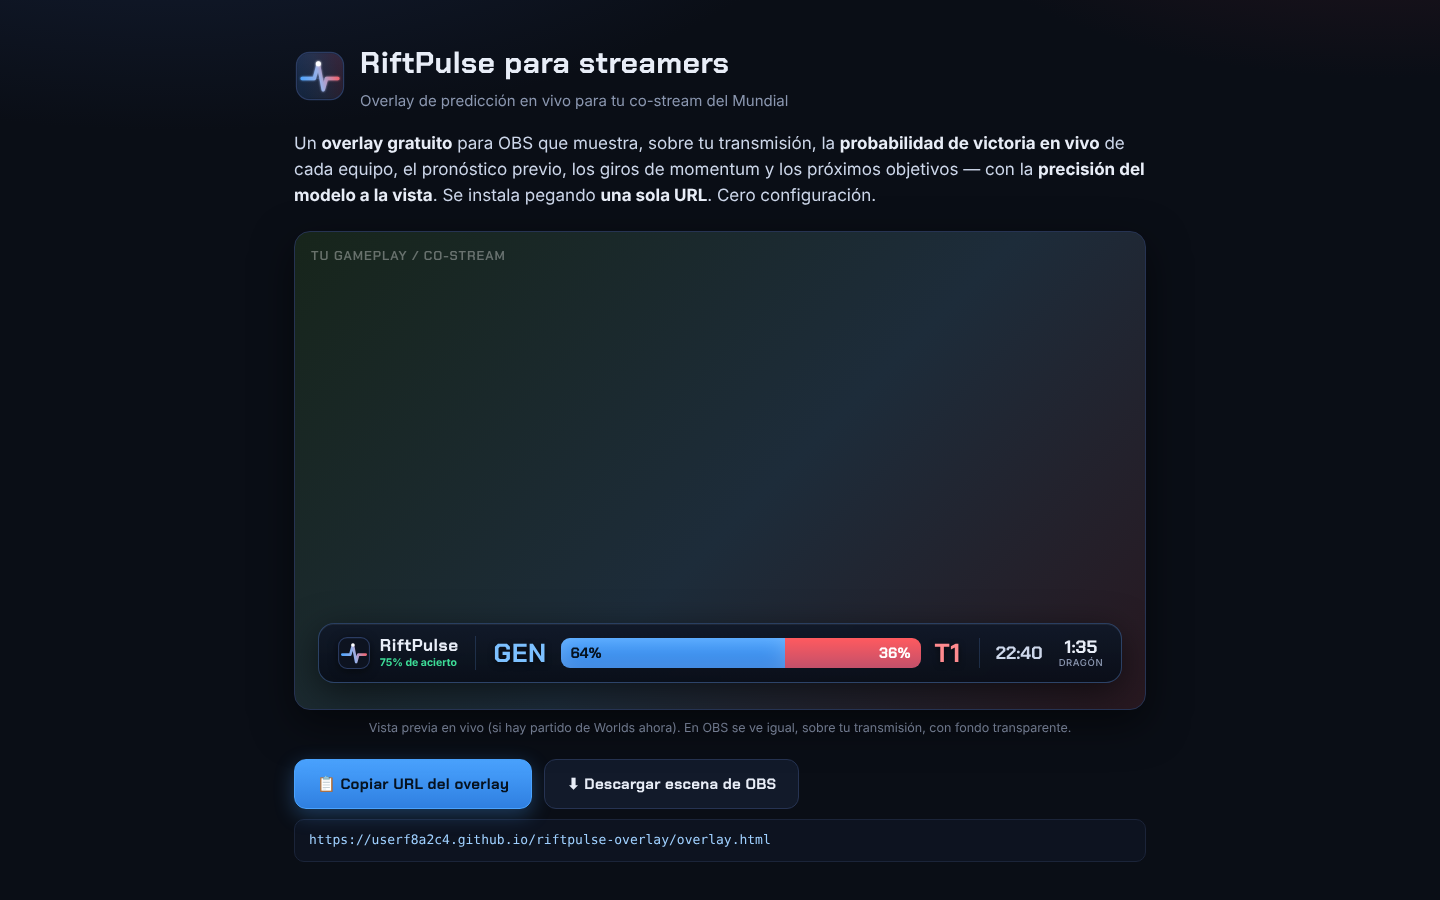
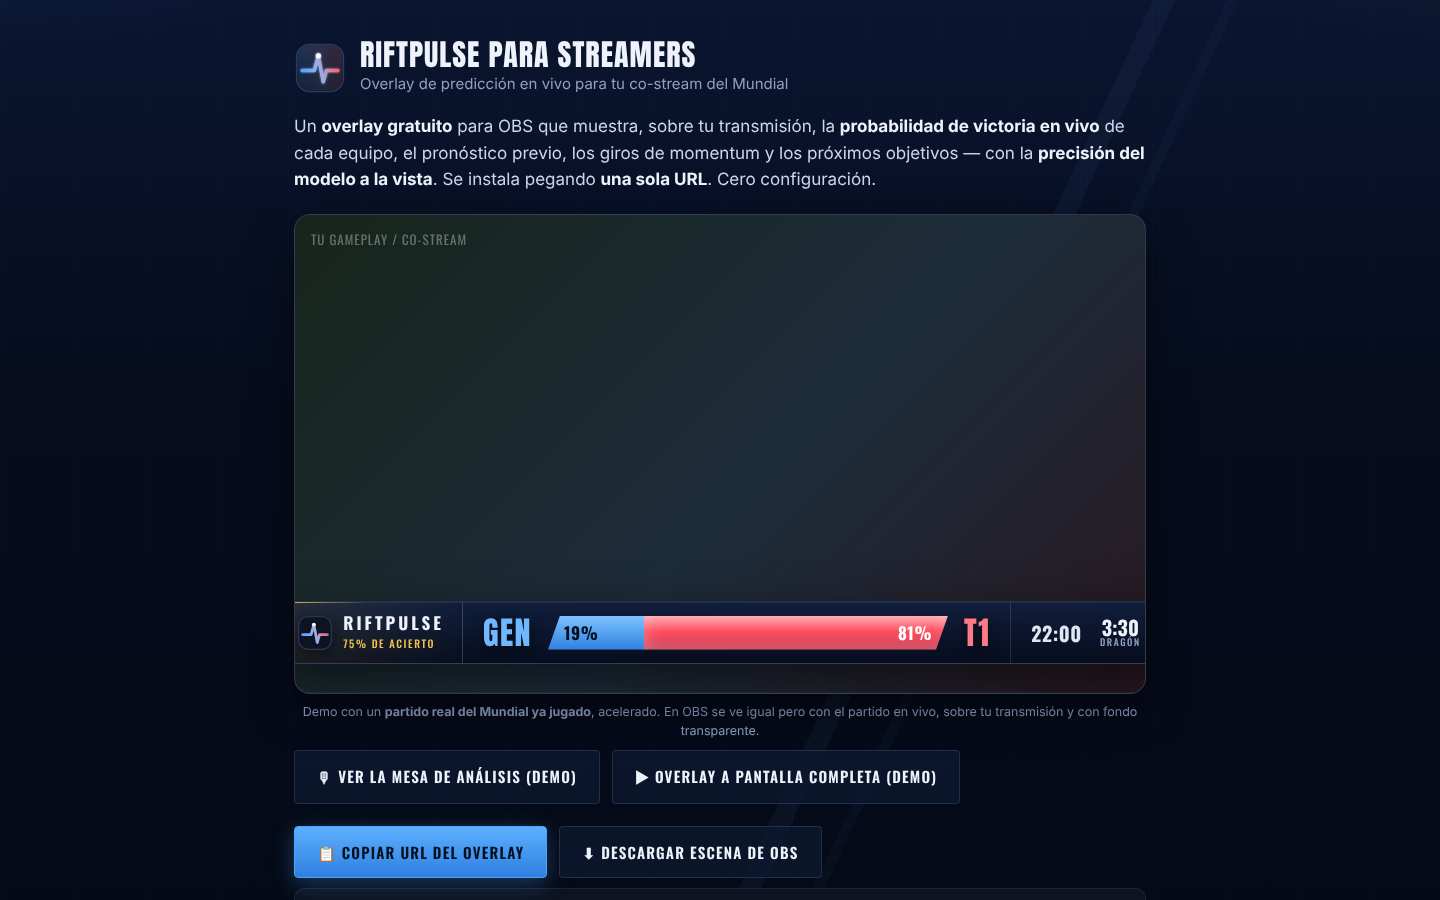
Imagenes del README y la wiki con el diseno nuevo; predicciones y cuadro

Changed region(s): [[0.1875, 0.0, 0.875, 0.3111], [0.1875, 0.6844, 0.8125, 0.9956]]

diff --git a/README.md b/README.md
@@ -25,6 +25,7 @@ RiftPulse estima **en tiempo real** la probabilidad de victoria de cada equipo d
 - 🎬 **[Overlay para OBS](https://github.com/userf8a2c4/riftpulse-overlay/wiki/Paquete-de-gráficos)** — barra en vivo y piezas conmutables: serie, duelos por línea, alerta de giro, qué necesita el que va abajo y resumen al terminar cada juego.
 - 🎙 **[Mesa de análisis](https://github.com/userf8a2c4/riftpulse-overlay/wiki/Mesa-de-análisis)** — segunda pantalla para casters: el porqué, giros clave, duelos, serie, draft y **frases listas para comentar**.
 - 🎚 **[Control de producción](https://github.com/userf8a2c4/riftpulse-overlay/wiki/Control-de-producción)** — enciende y apaga piezas y lanza alertas sin recargar.
+- 🏆 **[Predicciones del stream y cuadro en vivo](https://github.com/userf8a2c4/riftpulse-overlay/wiki/Control-de-producción)** — los picks de cada integrante con aciertos automáticos, y las eliminatorias del Mundial en tiempo real.
 - 🎯 **[Precisión a la vista](https://github.com/userf8a2c4/riftpulse-overlay/wiki/Precisión-y-pruebas)** — 62 % antes del juego, **75 % al min 15** y 84 % al min 25, sobre 589 juegos que el modelo no vio.
 
 ## Instalar en OBS

diff --git a/wiki/Paquete-de-gráficos.md b/wiki/Paquete-de-gráficos.md
@@ -20,6 +20,8 @@ Más allá del lower-third, el overlay ofrece **varias piezas** que producción 
 
 <p align="center"><img src="https://raw.githubusercontent.com/userf8a2c4/riftpulse-overlay/main/docs/img/piezas-casters.png" width="480" alt="Piezas serie, remontada, duelos y resumen"><br><sub>serie · remontada · duelos · recap (datos simulados)</sub></p>
 
+<p align="center"><img src="https://raw.githubusercontent.com/userf8a2c4/riftpulse-overlay/main/docs/img/cuadro.png" width="520" alt="Cuadro de eliminatorias"> <img src="https://raw.githubusercontent.com/userf8a2c4/riftpulse-overlay/main/docs/img/predicciones.png" width="620" alt="Predicciones del stream"><br><sub>cuadro · predicciones (datos de ejemplo)</sub></p>
+
 ## Cómo usarlas
 - Cada vista es un **Browser Source** aparte (1920 × 1080, transparente).
 - Ponlas en escenas distintas y conmuta según el momento de la transmisión.

diff --git a/wiki/Control-de-producción.md b/wiki/Control-de-producción.md
@@ -21,6 +21,9 @@ El overlay y el control se sincronizan cuando **ambos corren en OBS** (comparten
 - **🏁 Mostrar resumen del juego** — vuelve a sacar el resumen del último juego en la vista `recap`.
 
 ## Predicciones del stream
+
+<p align="center"><img src="https://raw.githubusercontent.com/userf8a2c4/riftpulse-overlay/main/docs/img/predicciones.png" width="760" alt="Predicciones del stream"><br><sub>Datos de ejemplo.</sub></p>
+
 La gráfica de picks del equipo del stream, como la de las transmisiones oficiales, pero con aciertos automáticos.
 1. Ponle **título** (por ejemplo, «Predicciones del Boom»).
 2. Agrega a los **integrantes**, todos los que quieras: nombre y, si quieres, una **foto** (se sube desde la computadora y se ajusta sola).
